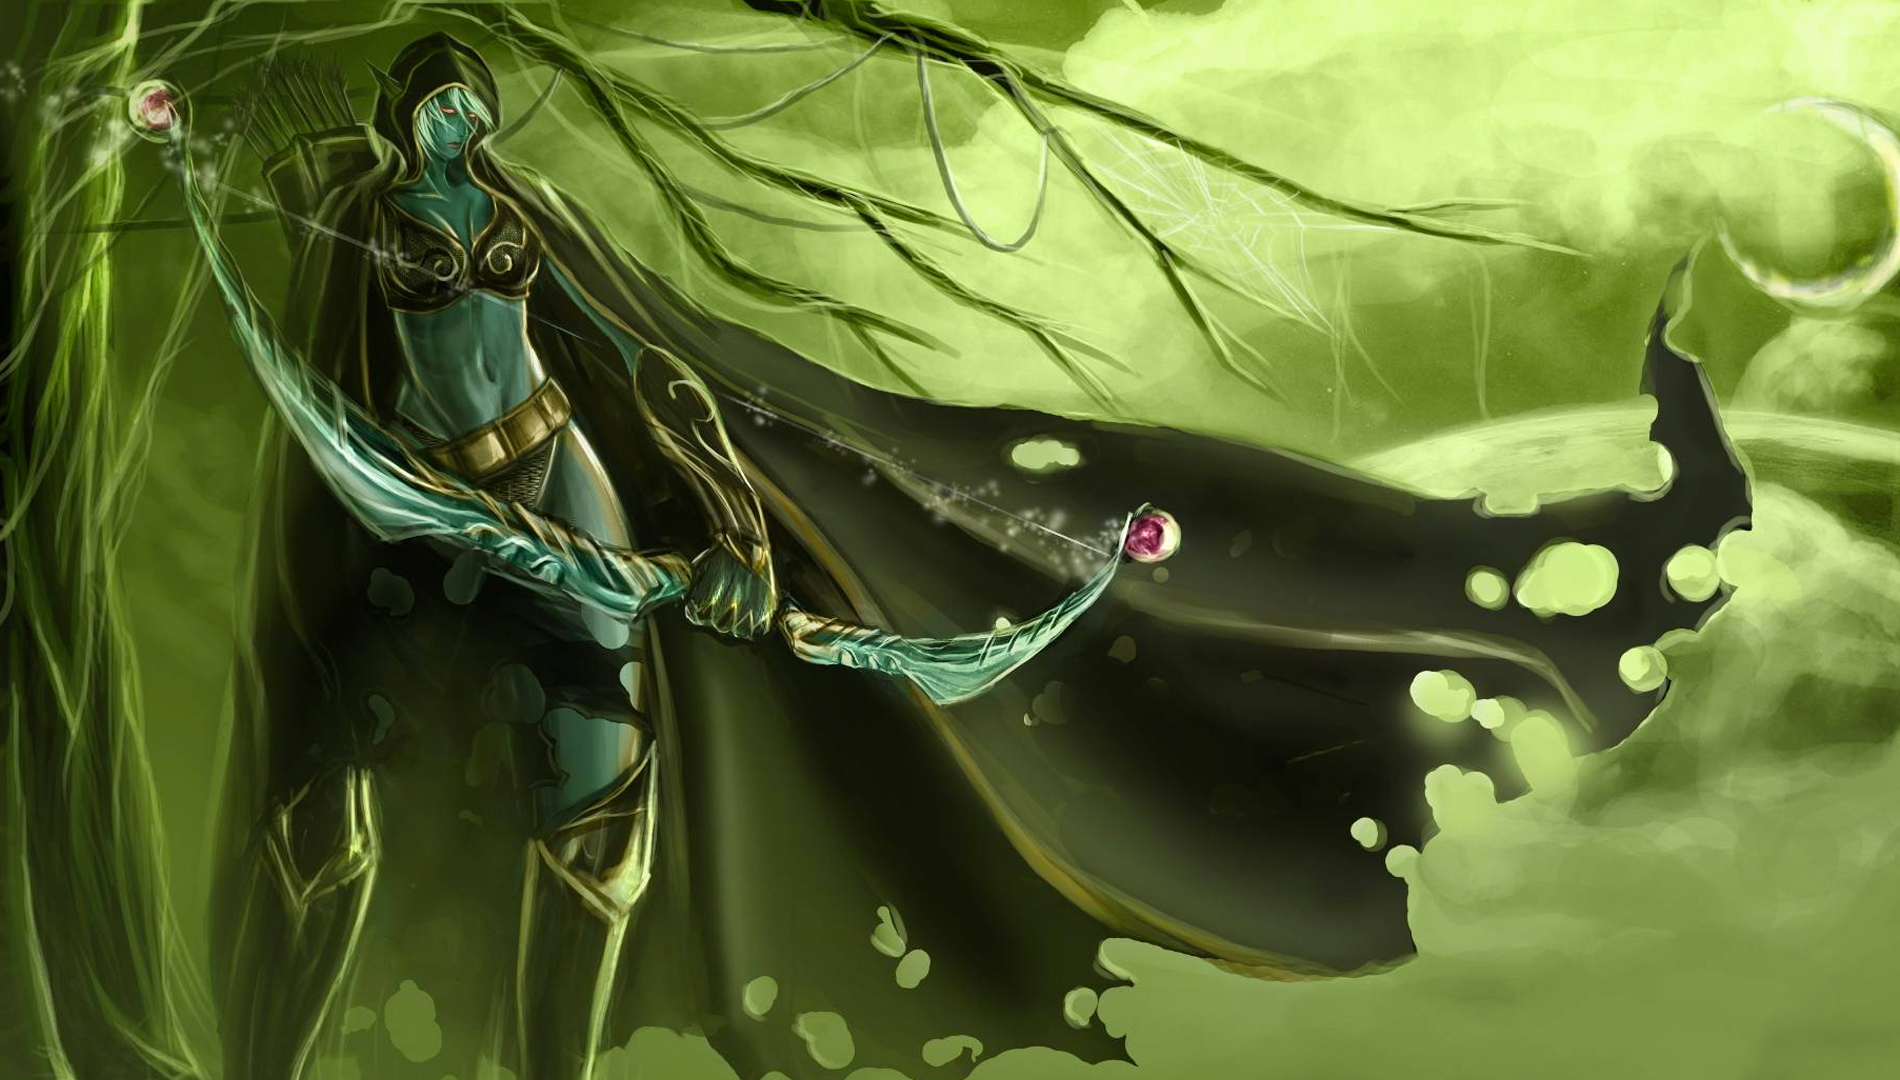
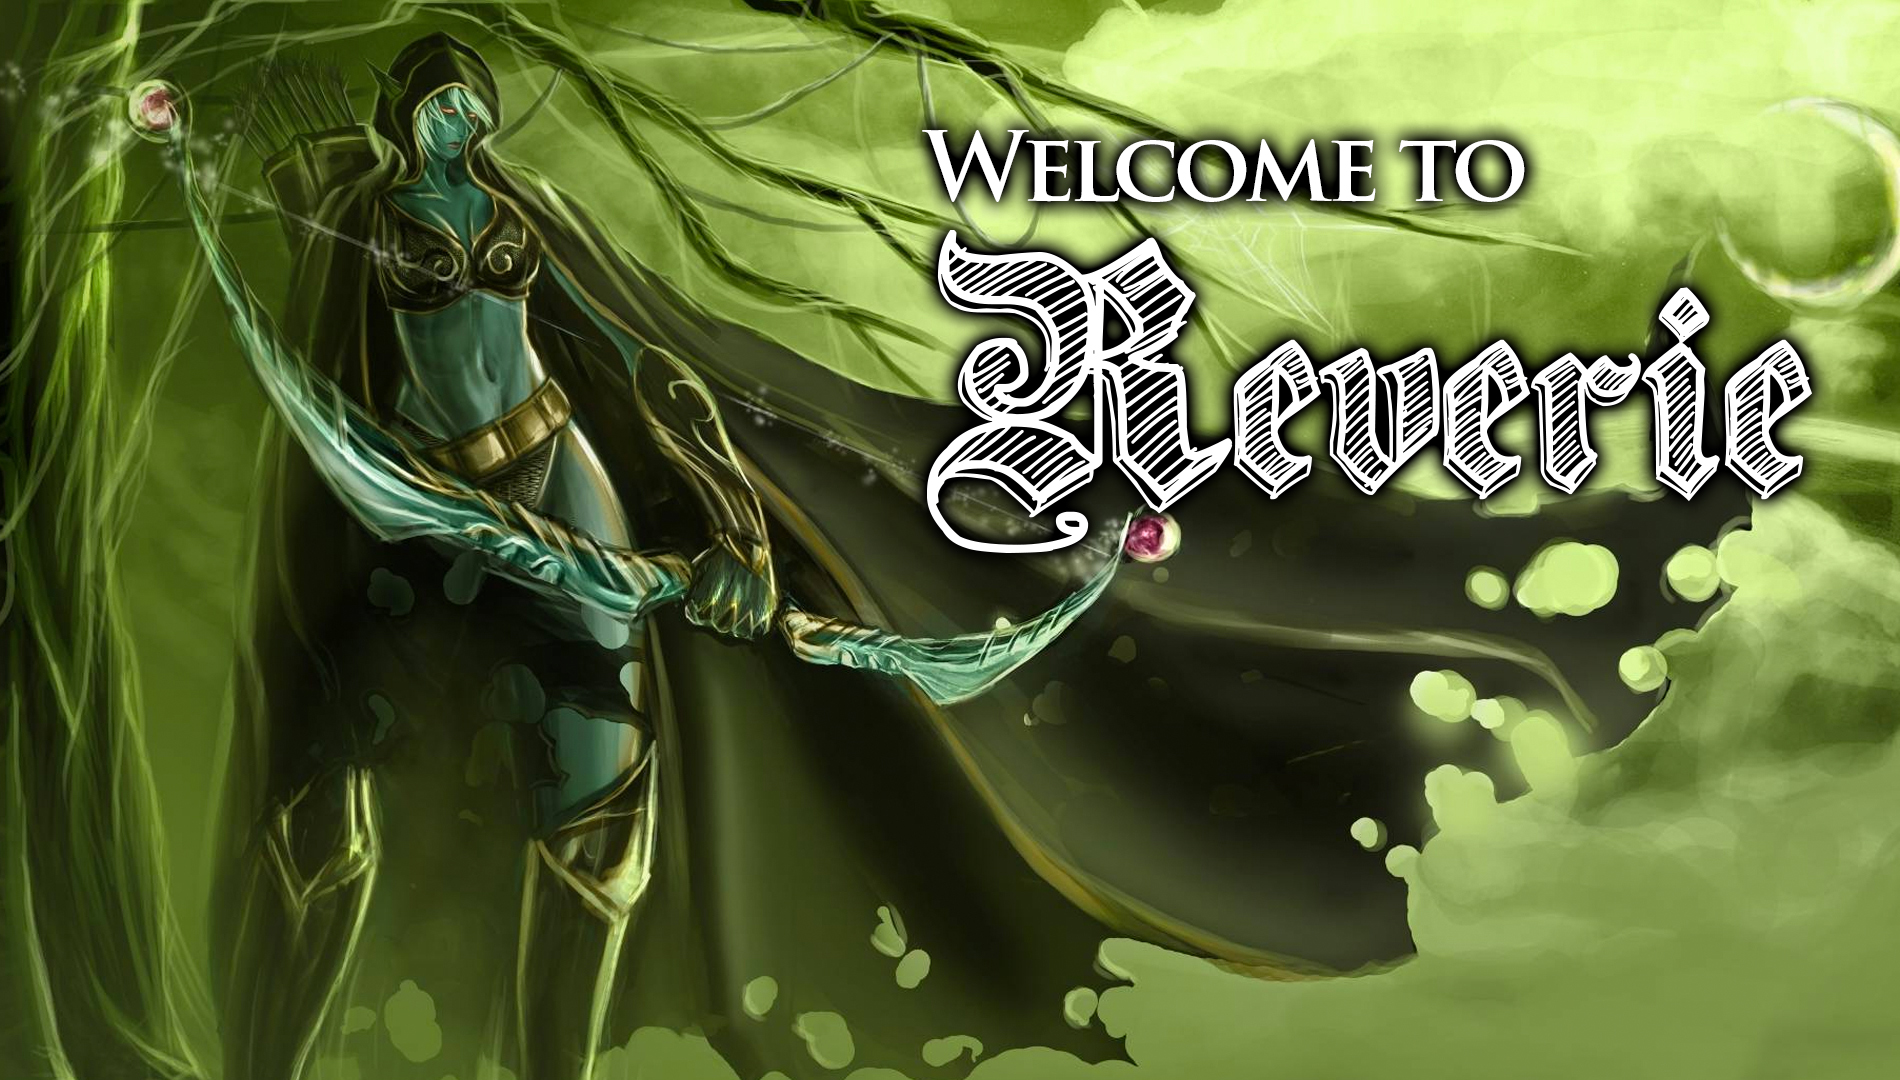
react update

Changed region(s): [[0.4658, 0.0917, 0.9626, 0.5194]]

diff --git a/game/src/App.js b/game/src/App.js
@@ -15,17 +15,19 @@ class App extends Component {
         <Carousel />
 
           <div class="container-fluid">
-          <div class="title-arch">Welcome to Reverie <p> "Try not to get yourself killed"</p></div>
+          <div class="title-arch">WELCOME TO REVERIE /ˈREV(Ə)RĒ <p>
+A STATE OF BEING PLEASANTLY LOST IN ONE'S THOUGHTS</p>
+          </div>
         <Card pictureClass=""  paragraph="test" title="BARBARIAN">
             <hr/>
-            <p>cruel wicked and inhuman</p>
+            <p>Cruel Wicked and Inhuman</p>
              <br/>
              <p>Attack: 7/10</p>
              <p>Hit Points: 3/10</p>
              <p>Speed: 6/10</p>
              <p>Range: 6/10</p>
         </Card>
-        <Card pictureClass="project-2"  paragraph="test" title="PALADIN" >
+        <Card pictureClass="project-2"  title="PALADIN" >
           <hr/>
            <p>Champion of a cause.</p>
            <br/>
@@ -34,7 +36,7 @@ class App extends Component {
            <p>Speed: 4/10</p>
            <p>Range: 2/10</p>
         </Card>
-        <Card pictureClass="project-3"  paragraph="test" title="MAGE" >
+        <Card pictureClass="project-3"  title="MAGE" >
           <hr />
           <p>Magician or learned person.</p>
           <br/>
@@ -43,7 +45,7 @@ class App extends Component {
           <p>Speed: 6/10</p>
           <p>Range: 6/10</p>
           </Card>
-        <Card pictureClass="project-4"  paragraph="test" title="ROGUE" >
+        <Card pictureClass="project-4"  title="ROGUE" >
           <hr/>
           <p>Wise & skilled archer.</p>
           <br/>

diff --git a/game/src/components/Card.js b/game/src/components/Card.js
@@ -9,7 +9,7 @@ class Card extends Component {
               <h2>{this.props.title}</h2>
 
                 <hr />
-                <p>{this.props.paragraph}</p>
+                {/*}<p>{this.props.paragraph}</p>*/}
                 {this.props.children}
             </div>
         </div>
